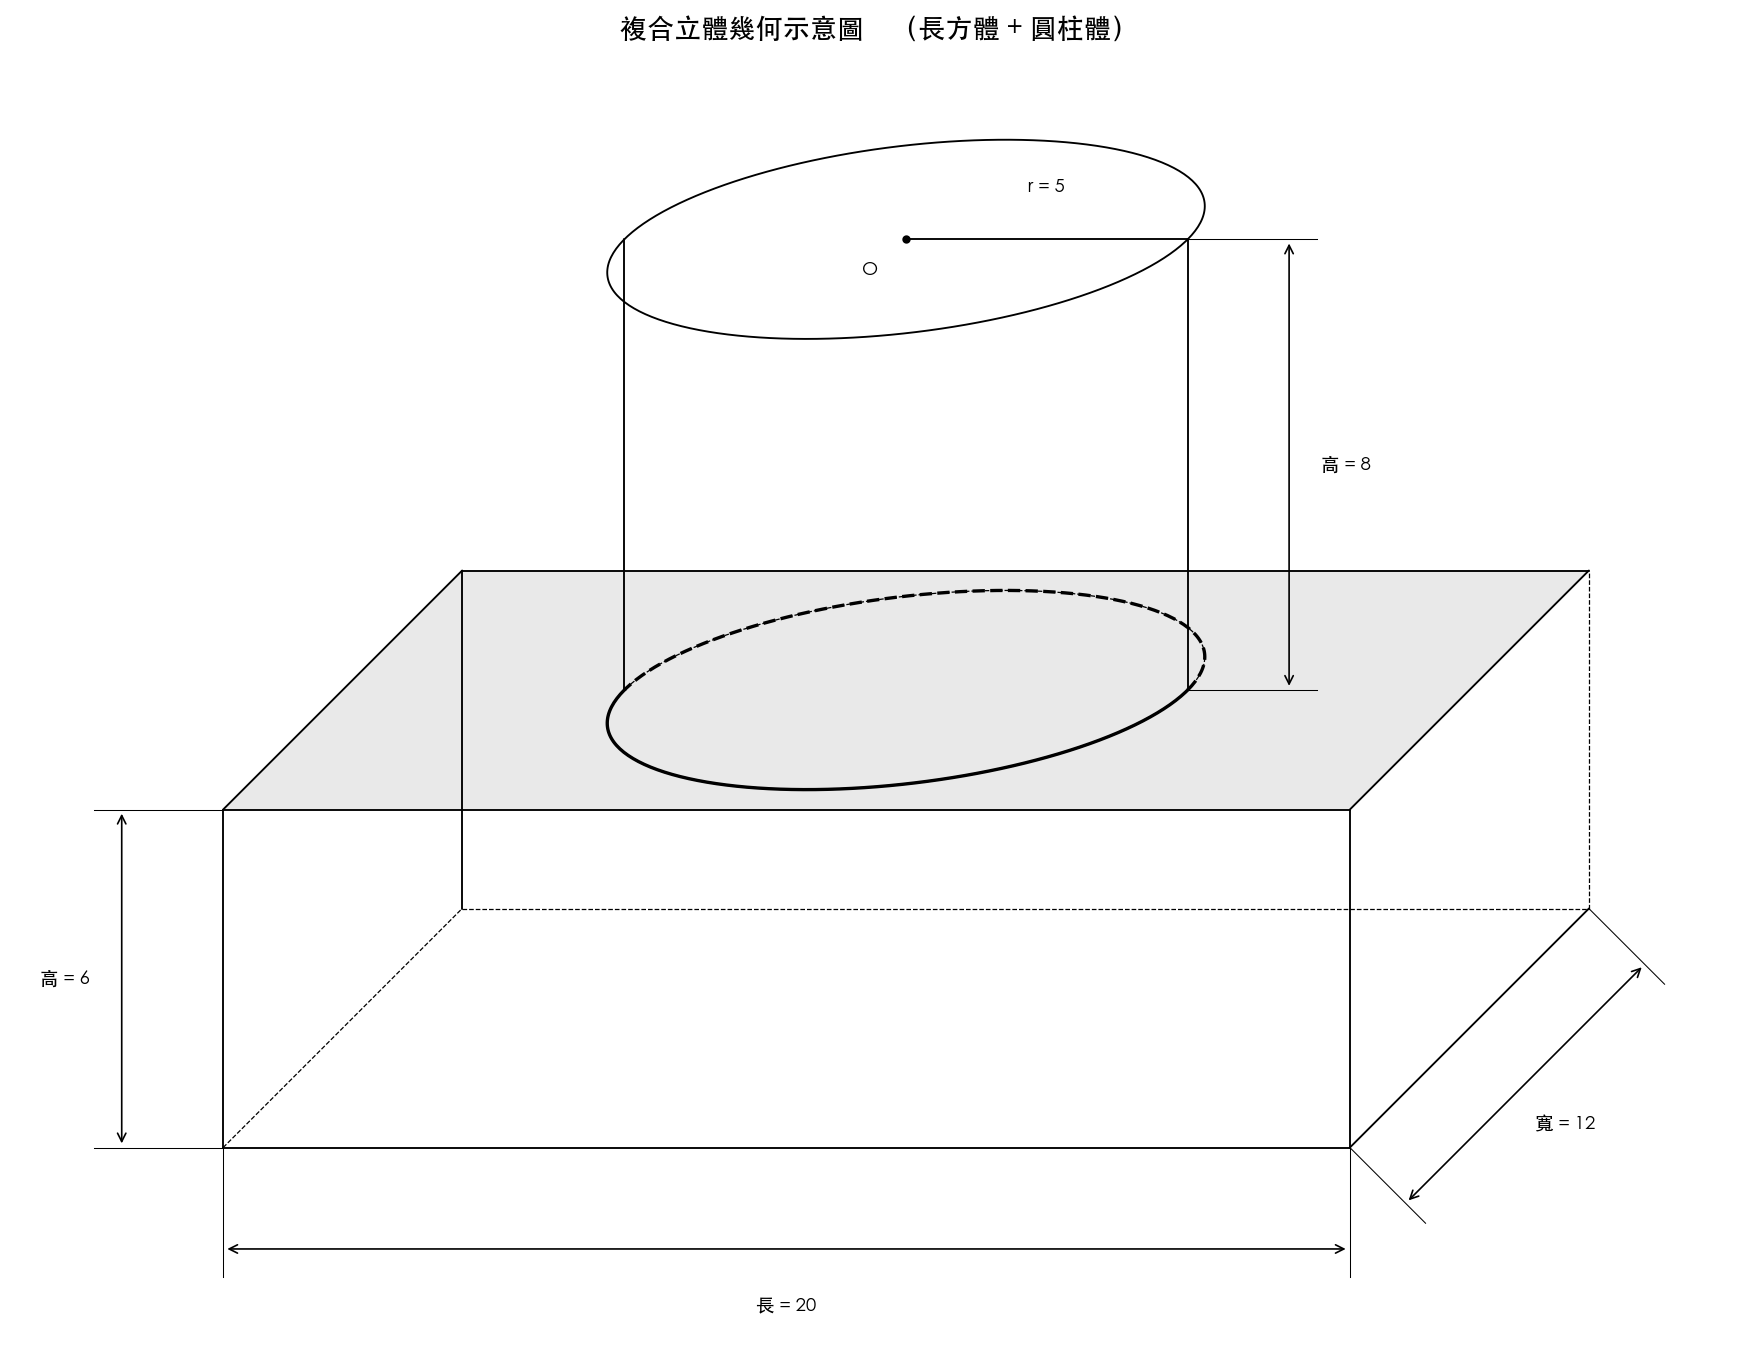
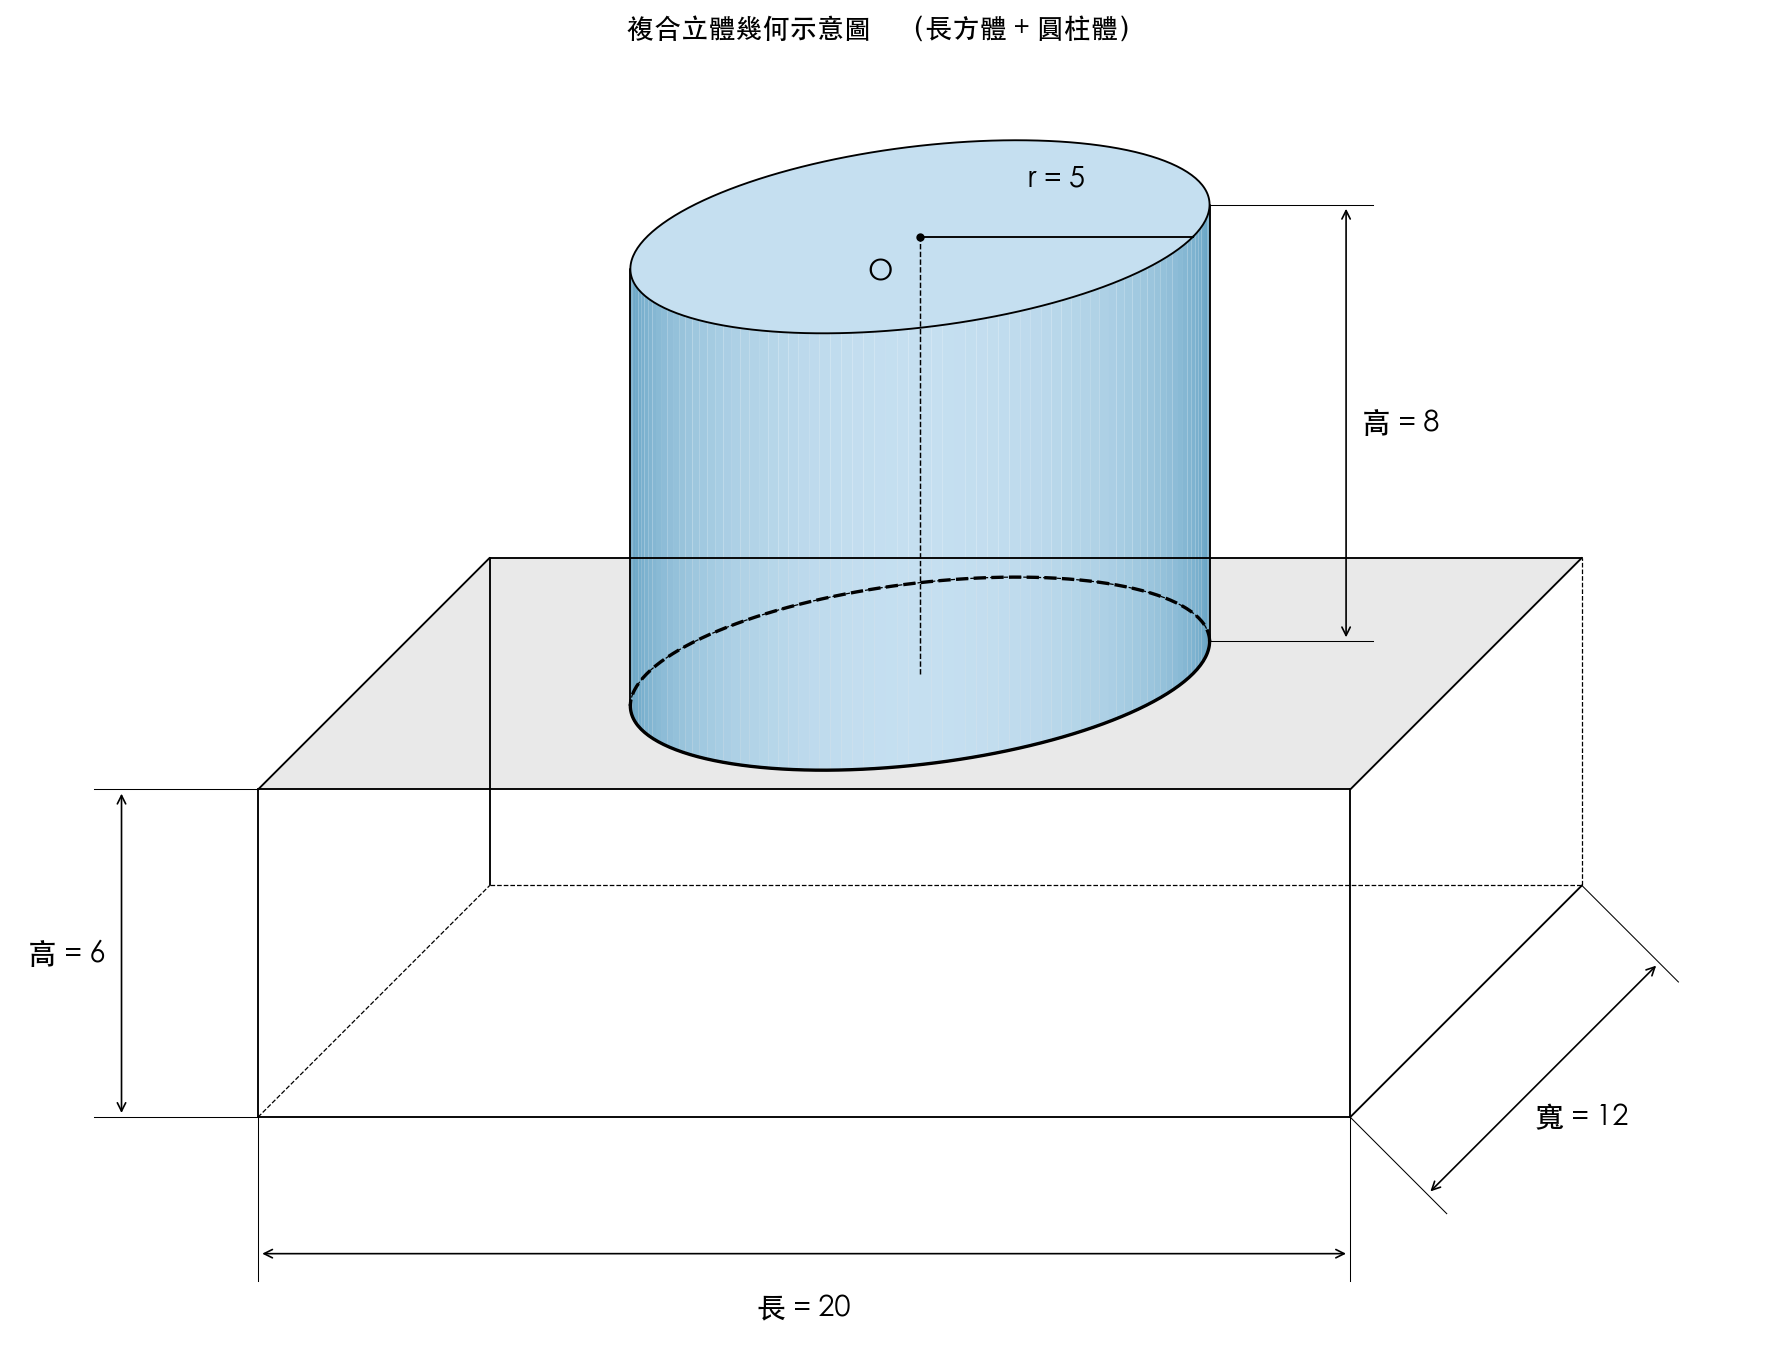
Fix cylinder shading and visual improvements
- Add correct projected silhouette angle (_SIL_ALPHA ≈ 19.5°) so tangent
  lines and shading boundaries align with the true oblique-projection
  silhouette instead of the naive θ=0/π positions
- Replace two-tone side fill with 80-strip smooth gradient (dark edges →
  light centre) that is now symmetric on both left and right sides
- Fill cylinder top face with solid blue (#C5DFF0) so it reads as a
  closed solid cap rather than an open tube
- Add vertical centre-axis dashed line from bottom O to top O
- Increase dimension label font size 9 → 14 for readability as exam material

diff --git a/geometry_generator.py b/geometry_generator.py
@@ -44,6 +44,10 @@ _setup_font()
 _PROJ_ANGLE = np.radians(45)
 _PROJ_SCALE = 0.5          # y-axis compression ratio
 
+# In the oblique projection, the visual silhouette tangent lines of a cylinder
+# are NOT at θ=0/π but shifted by this angle.  Computed from d(px)/dθ = 0.
+_SIL_ALPHA = np.arctan(_PROJ_SCALE * np.cos(_PROJ_ANGLE))   # ≈ 0.34 rad ≈ 19.5°
+
 
 def project(x, y, z):
     """Map a 3-D point to 2-D screen coordinates."""
@@ -61,6 +65,80 @@ def _seg(ax, p3a, p3b, ls="-", lw=0.9, color="k"):
         [a[0], b[0]], [a[1], b[1]],
         ls, color=color, lw=lw,
         solid_capstyle="round", solid_joinstyle="round",
+    )
+
+
+def shade_cylinder_side(ax, cx, cy, cz, radius, height,
+                         light_color="#C5DFF0", dark_color="#5B9DC0",
+                         n_strips=80):
+    """
+    Shade the visible lateral surface of a cylinder with a smooth gradient.
+
+    Uses n_strips thin quadrilateral bands across the front half (θ ∈ [π, 2π]).
+    Colour interpolates from dark_color at the tangent edges to light_color at
+    the foremost centre point, mimicking a diffuse front-lit surface.
+    No visible seam — the entire front side reads as one continuous surface.
+
+    Call BEFORE draw_cylinder() so wireframe edges appear on top.
+    """
+    def _hex_to_rgb(h):
+        h = h.lstrip("#")
+        return tuple(int(h[i:i+2], 16) / 255 for i in (0, 2, 4))
+
+    lc = np.array(_hex_to_rgb(light_color))
+    dc = np.array(_hex_to_rgb(dark_color))
+
+    # Arc runs from the true left silhouette to the true right silhouette,
+    # passing through the foremost point.  Both edges are exactly at the
+    # projected tangent lines drawn by draw_cylinder().
+    a = _SIL_ALPHA
+    t_start = np.pi + a          # left  silhouette (projected leftmost x)
+    t_end   = 2 * np.pi + a      # right silhouette (projected rightmost x)
+    thetas  = np.linspace(t_start, t_end, n_strips + 1)
+
+    for i in range(n_strips):
+        t_a, t_b = thetas[i], thetas[i + 1]
+        t_mid = (t_a + t_b) / 2
+
+        # sin(t - t_start) goes 0 → 1 → 0 symmetrically over [t_start, t_end]
+        factor = float(np.sin(t_mid - t_start))
+        color  = tuple(dc + factor * (lc - dc))
+
+        pts = [
+            project(cx + radius * np.cos(t_a), cy + radius * np.sin(t_a), cz),
+            project(cx + radius * np.cos(t_b), cy + radius * np.sin(t_b), cz),
+            project(cx + radius * np.cos(t_b), cy + radius * np.sin(t_b), cz + height),
+            project(cx + radius * np.cos(t_a), cy + radius * np.sin(t_a), cz + height),
+        ]
+        ax.add_patch(plt.Polygon(pts, facecolor=color, edgecolor="none", zorder=1))
+
+
+def fill_cylinder_top(ax, cx, cy, cz, radius, height, color="#C5DFF0", n=200):
+    """
+    Fill the top circle of the cylinder with a solid colour (default white).
+    This closes the cap visually so the shape reads as a solid cylinder,
+    not an open tube.  Draw AFTER side shading but BEFORE wireframe so the
+    top-circle outline appears on top.
+    """
+    theta = np.linspace(0, 2 * np.pi, n)
+    xs = cx + radius * np.cos(theta)
+    ys = cy + radius * np.sin(theta)
+    pts = [project(x, y, cz + height) for x, y in zip(xs, ys)]
+    poly = plt.Polygon(pts, facecolor=color, edgecolor="none", zorder=1.5)
+    ax.add_patch(poly)
+
+
+def draw_cylinder_axis(ax, cx, cy, cz, height, lw=0.7):
+    """
+    Draw the central axis of the cylinder as a thin dashed line.
+    Runs from the bottom-circle centre to the top-circle centre.
+    Common in Chinese K-12 textbooks to show the axis of rotation.
+    """
+    p_bot = project(cx, cy, cz)
+    p_top = project(cx, cy, cz + height)
+    ax.plot(
+        [p_bot[0], p_top[0]], [p_bot[1], p_top[1]],
+        "--", color="k", lw=lw, zorder=3,
     )
 
 
@@ -167,11 +245,12 @@ def draw_cylinder(ax, cx, cy, cz, radius, height, n=300):
     tx, ty = _proj_circle(cz + height)
     ax.plot(tx, ty, "-", color="k", lw=0.9)
 
-    # Bottom circle – front half solid (y < cy → θ ∈ [π, 2π]),
-    #                 back half dashed  (y > cy → θ ∈ [0, π])
+    # Bottom circle – visible arc solid, hidden arc dashed.
+    # Split at the true projected silhouette angles (not simply θ=0/π).
+    a = _SIL_ALPHA
     for t_range, ls, lw in [
-        (np.linspace(np.pi, 2 * np.pi, n // 2), "-",  0.9),   # front
-        (np.linspace(0,      np.pi,     n // 2), "--", 0.6),   # back
+        (np.linspace(np.pi + a, 2 * np.pi + a, n // 2), "-",  0.9),   # front (visible)
+        (np.linspace(2 * np.pi + a, 3 * np.pi + a, n // 2), "--", 0.6),  # back (hidden)
     ]:
         xs_r = cx + radius * np.cos(t_range)
         ys_r = cy + radius * np.sin(t_range)
@@ -179,9 +258,13 @@ def draw_cylinder(ax, cx, cy, cz, radius, height, n=300):
         py_r = [project(x, y, cz)[1] for x, y in zip(xs_r, ys_r)]
         ax.plot(px_r, py_r, ls, color="k", lw=lw)
 
-    # Left and right tangent lines
-    _seg(ax, (cx - radius, cy, cz), (cx - radius, cy, cz + height))
-    _seg(ax, (cx + radius, cy, cz), (cx + radius, cy, cz + height))
+    # Tangent lines at the true projected silhouette positions
+    xl = cx + radius * np.cos(np.pi + a)
+    yl = cy + radius * np.sin(np.pi + a)
+    xr = cx + radius * np.cos(a)
+    yr = cy + radius * np.sin(a)
+    _seg(ax, (xl, yl, cz), (xl, yl, cz + height))
+    _seg(ax, (xr, yr, cz), (xr, yr, cz + height))
 
     return dict(bottom=(cx, cy, cz), top=(cx, cy, cz + height))
 
@@ -334,18 +417,24 @@ def generate_figure(
     # ── 1. Draw the cuboid wireframe ──────────────────────────────
     v = draw_cuboid(ax, box_length, box_width, box_height)
 
-    # ── 2. Draw the cylinder, centred on the cuboid's top face ────
-    draw_cylinder(ax, cx, cy, cz, cyl_radius, cyl_height)
+    # ── 2. Cylinder fills — all drawn before wireframe so lines sit on top ──
+    shade_cylinder_side(ax, cx, cy, cz, cyl_radius, cyl_height)  # side shading
+    fill_cylinder_top(ax, cx, cy, cz, cyl_radius, cyl_height)    # white cap
 
-    # ── 2b. Re-draw the contact ellipse thicker to show the joint ─
+    # ── 3. Cylinder wireframe + axis ──────────────────────────────
+    draw_cylinder(ax, cx, cy, cz, cyl_radius, cyl_height)
+    draw_cylinder_axis(ax, cx, cy, cz, cyl_height)               # centre axis
+
+    # ── 3b. Re-draw the contact ellipse thicker to show the joint ─
     #   Full bottom circle at z = cz (both visible and hidden arcs)
     n = 300
     theta = np.linspace(0, 2 * np.pi, n)
     xs = cx + cyl_radius * np.cos(theta)
     ys = cy + cyl_radius * np.sin(theta)
+    _a = _SIL_ALPHA
     for t_range, ls in [
-        (np.linspace(np.pi, 2 * np.pi, n // 2), "-"),    # front (visible)
-        (np.linspace(0,      np.pi,     n // 2), "--"),   # back  (hidden)
+        (np.linspace(np.pi + _a, 2 * np.pi + _a, n // 2), "-"),          # front
+        (np.linspace(2 * np.pi + _a, 3 * np.pi + _a, n // 2), "--"),     # back
     ]:
         xs_r = cx + cyl_radius * np.cos(t_range)
         ys_r = cy + cyl_radius * np.sin(t_range)
@@ -353,14 +442,17 @@ def generate_figure(
         py_r = [project(x, y, cz)[1] for x, y in zip(xs_r, ys_r)]
         ax.plot(px_r, py_r, ls, color="k", lw=1.6)   # thicker = emphasis
 
-    # ── 3. Dimension lines ────────────────────────────────────────
+    # ── 4. Dimension lines ────────────────────────────────────────
+
+    DIM_FS = 14   # dimension label font size
+    RAD_FS = 14   # radius / centre-O font size
 
     # Cuboid: length (front-bottom edge  A → B)
     draw_dimension_line(
         ax,
         project(*v["A"]), project(*v["B"]),
         f"長 = {box_length}",
-        perp=(0, -1), gap=1.8,
+        perp=(0, -1), gap=2.5, fontsize=DIM_FS,
     )
 
     # Cuboid: width (right-bottom edge  B → C, goes oblique)
@@ -368,7 +460,7 @@ def generate_figure(
         ax,
         project(*v["B"]), project(*v["C"]),
         f"寬 = {box_width}",
-        perp=(1, -1), gap=1.4,
+        perp=(1, -1), gap=2.0, fontsize=DIM_FS,
     )
 
     # Cuboid: height (front-left vertical  A → E)
@@ -376,17 +468,19 @@ def generate_figure(
         ax,
         project(*v["A"]), project(*v["E"]),
         f"高 = {box_height}",
-        perp=(-1, 0), gap=1.8,
+        perp=(-1, 0), gap=2.5, fontsize=DIM_FS,
     )
 
-    # Cylinder: height (right tangent of cylinder, vertical)
-    p_cyl_bot = project(cx + cyl_radius, cy, cz)
-    p_cyl_top = project(cx + cyl_radius, cy, cz + cyl_height)
+    # Cylinder: height – placed at the true right silhouette tangent
+    _xr = cx + cyl_radius * np.cos(_SIL_ALPHA)
+    _yr = cy + cyl_radius * np.sin(_SIL_ALPHA)
+    p_cyl_bot = project(_xr, _yr, cz)
+    p_cyl_top = project(_xr, _yr, cz + cyl_height)
     draw_dimension_line(
         ax,
         p_cyl_bot, p_cyl_top,
         f"高 = {cyl_height}",
-        perp=(1, 0), gap=1.8,
+        perp=(1, 0), gap=2.5, fontsize=DIM_FS,
     )
 
     # Cylinder: radius on the top circle (fully visible), going rightward
@@ -397,6 +491,7 @@ def generate_figure(
         angle_deg=0,
         label=f"r = {cyl_radius}",
         center_label="O",
+        fontsize=RAD_FS,
     )
 
     # ── 4. Title ──────────────────────────────────────────────────
